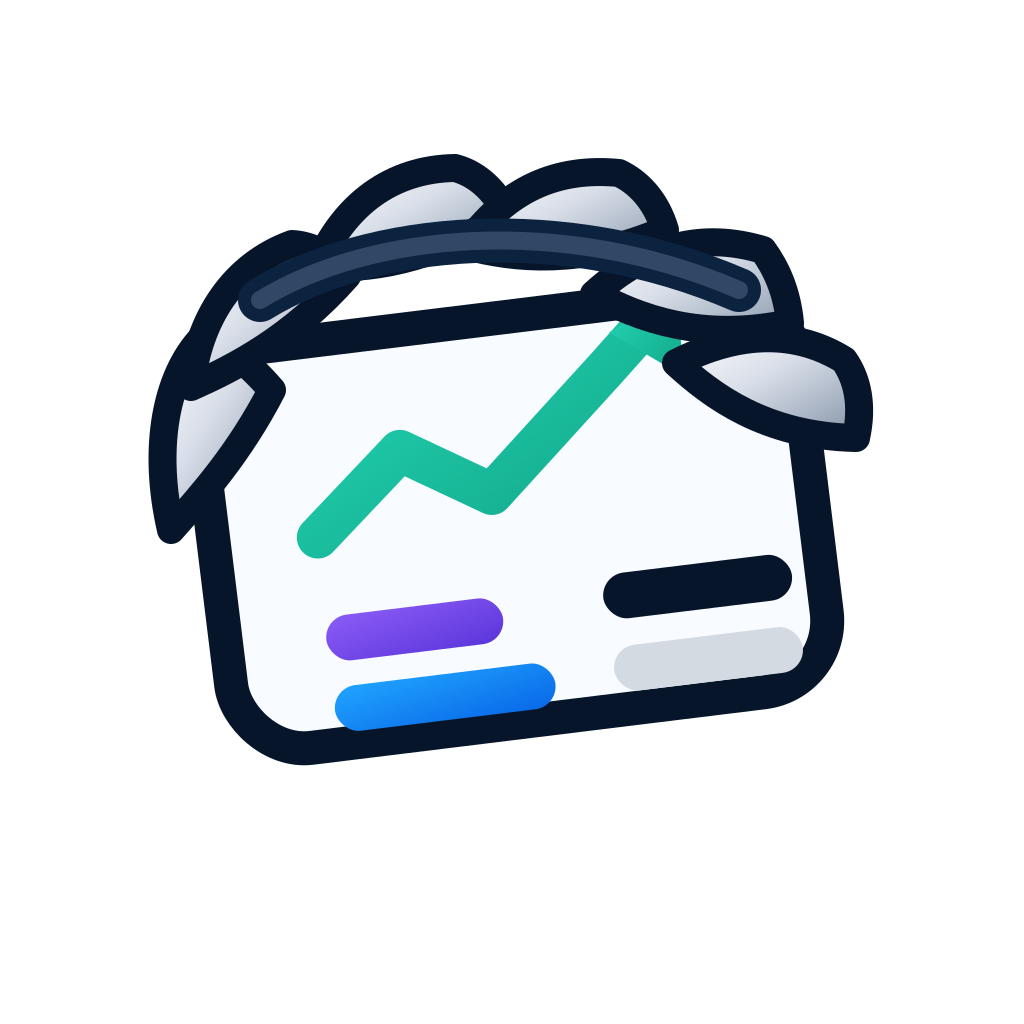
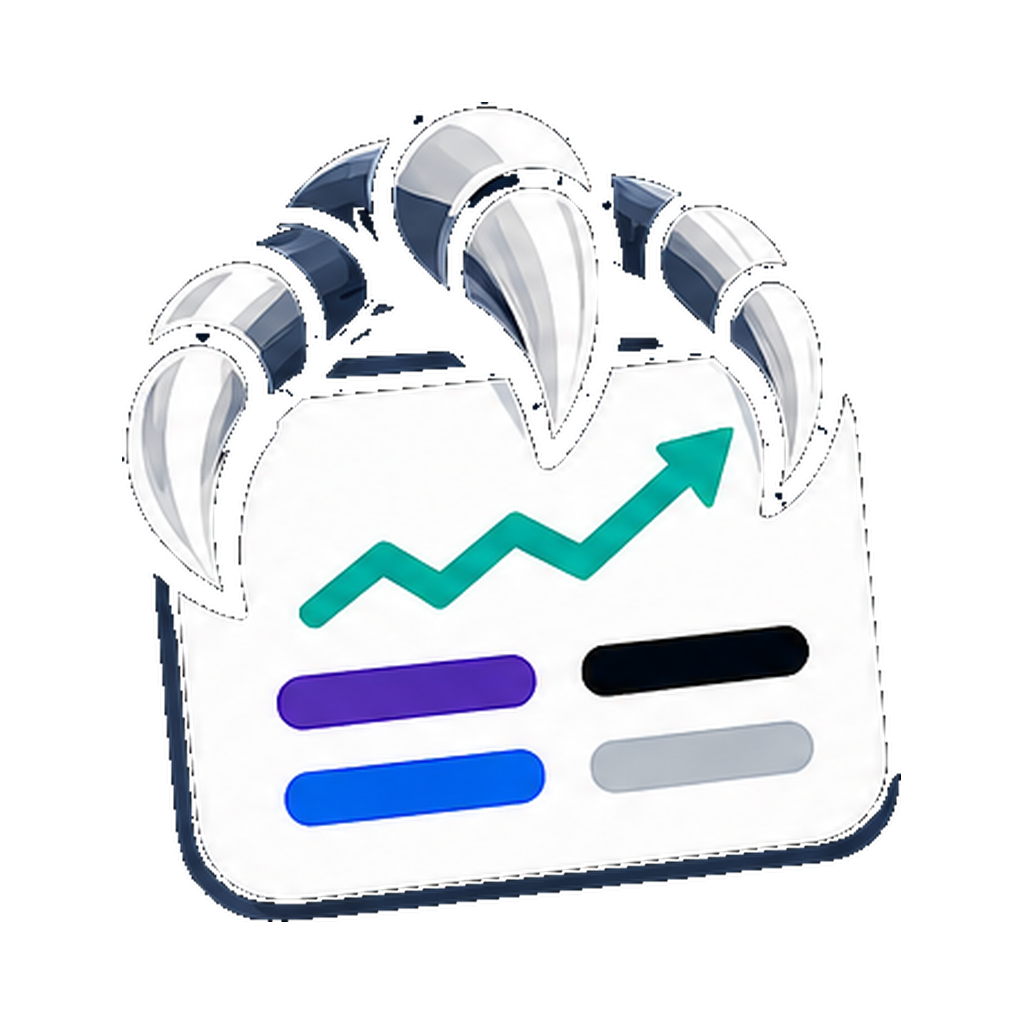
Update brand assets to refined illustration set
Drops in new PNGs from docs/brand/:

- mark-1024.png — refined claw + widget illustration with built-in
  dark-navy background, used as the iOS App Icon (Icon-1024.png).
- mark-transparent-1024.png — transparent variant.
- wordmark-horizontal.png — opaque horizontal lockup with the same
  dark-navy panel; used as the README hero.
- wordmark-horizontal-transparent.png — wordmark without the panel,
  for placing on already-dark surfaces.
- branding-sheet.png — replaced with the refreshed contact sheet from
  the new asset bundle.

The opaque wordmark.png has its own dark-navy panel built in, so it
reads correctly in both GitHub light *and* dark themes. That replaces
the previous <picture media="(prefers-color-scheme: dark)"> setup with
a custom dark SVG variant — no longer needed.

Removed stale SVG sources (mark.svg, mark-transparent.svg, wordmark.svg,
wordmark-horizontal.svg, wordmark-horizontal-dark.svg). They predated
this illustration revision and don't match it; the new asset set is
PNG-only by design. docs/brand/README.md notes this and lists the new
file inventory.

iOS sim rebuilt with the new icon and re-seeded against
https://api.00widget.com.

Changed region(s): [[0.125, 0.0938, 0.9062, 0.9062]]

diff --git a/docs/brand/README.md b/docs/brand/README.md
@@ -3,10 +3,7 @@
 The official brand assets and usage rules.
 
 <p align="center">
-  <picture>
-    <source media="(prefers-color-scheme: dark)" srcset="./wordmark-horizontal-dark.svg">
-    <img src="./wordmark-horizontal.svg" alt="00Widget — Widgets for all your agents." width="640">
-  </picture>
+  <img src="./wordmark-horizontal.png" alt="00Widget — Widgets for all your agents." width="720">
 </p>
 
 ## Tagline
@@ -21,36 +18,35 @@ Use this exact wording — no rephrasing. It appears in:
 
 ## Assets in this directory
 
-| File                            | Size       | Background  | Use                                   |
-| ------------------------------- | ---------- | ----------- | ------------------------------------- |
-| `mark-1024.png`                 | 1024×1024  | Opaque      | iOS App Icon (no transparency allowed). Already wired into `ios/Resources/App/Assets.xcassets/AppIcon.appiconset/Icon-1024.png`. |
-| `mark-transparent-1024.png`     | 1024×1024  | Transparent | Mark on arbitrary backgrounds — buttons, badges, dark headers. |
-| `wordmark-horizontal.png`       | 2400×800   | Transparent | Horizontal lockup of icon + "00Widget" + tagline. PNG fallback for environments that don't render SVG (Slack, email, OG-image previewers). |
-| `mark.svg` / `mark-transparent.svg` | vector | —           | Source of truth for the icon. Re-export raster sizes from these. |
-| `wordmark.svg` / `wordmark-horizontal.svg` | vector | —    | Source of truth for the lockup (light-mode text). README hero. |
-| `wordmark-horizontal-dark.svg`  | vector     | —           | Dark-mode variant of the horizontal lockup — light text colors so it stays legible on GitHub dark theme. Paired with the light SVG via `<picture media="(prefers-color-scheme: dark)">`. |
-| `branding-sheet.png`            | 1536×1024  | —           | Reference contact sheet showing all variants together. |
+| File                                  | Size       | Background       | Use                                                                                          |
+| ------------------------------------- | ---------- | ---------------- | -------------------------------------------------------------------------------------------- |
+| `mark-1024.png`                       | 1024×1024  | Opaque dark navy | iOS App Icon. Already wired into `ios/Resources/App/Assets.xcassets/AppIcon.appiconset/Icon-1024.png`. |
+| `mark-transparent-1024.png`           | 1024×1024  | Transparent      | Mark on arbitrary backgrounds — buttons, badges, dark headers.                               |
+| `wordmark-horizontal.png`             | 2400×813   | Opaque dark navy | Horizontal lockup with built-in dark-navy panel. README hero — works in light *and* dark themes. |
+| `wordmark-horizontal-transparent.png` | 2400×711   | Transparent      | Horizontal lockup without panel. Use only when placing on a dark surface that gives enough contrast. |
+| `branding-sheet.png`                  | 1536×1024  | —                | Reference contact sheet showing all variants together.                                       |
+
+Vector sources (SVG) are not maintained for this revision; rasterize from a higher-res master if you need additional sizes.
 
 ## Color palette
 
-Sourced from the SVG `<linearGradient>` definitions — these are the authoritative values, not eyeballed samples.
+Eyeballed from the rendered PNGs (treat as approximate — request authoritative hex values from the designer if you need them for new collateral).
 
-| Role               | Stops                              | Usage                                   |
-| ------------------ | ---------------------------------- | --------------------------------------- |
-| Brand blue         | `#22A8FF` → `#0968E8`              | "00" wordmark, primary CTAs, card row   |
-| Trend teal         | `#24D6B5` → `#11A789`              | Trend-line accent inside the mark       |
-| Accent purple      | `#8B5CF6` → `#5B35DB`              | Card row accent inside the mark         |
-| Claw metal         | `#FFFFFF` → `#D8DEE8` → `#8291A6`  | Claw fill                               |
-| Deep navy          | `#06152A`                          | "Widget" wordmark, card stroke, dark text |
-| Mid navy           | `#243A57`                          | Tagline, secondary text                 |
-| Outline navy       | `#0C2340` (heavy) / `#304765` (highlight) | Claw outline, hierarchy lines    |
-| Card surface       | `#F8FBFF`                          | Card background inside the mark         |
-| Card row gray      | `#D4DAE2`                          | Inactive row in the mark                |
+| Role             | Approx hex            | Usage                                       |
+| ---------------- | --------------------- | ------------------------------------------- |
+| Brand blue       | `#1F8BFF` / `#0968E8` | "00" wordmark, primary accent               |
+| Trend teal       | `#1FB89A`             | Trend-line accent inside the mark           |
+| Accent purple    | `#5B35DB`             | Card row accent inside the mark             |
+| Claw metal       | white → `#8291A6`     | Claw fill (gradient)                        |
+| Deep navy        | `#06152A`             | Panel + card stroke + "Widget" text         |
+| Mid navy         | `#243A57`             | Tagline                                     |
+| Card surface     | `#F8FBFF`             | Card background inside the mark             |
+| Card row gray    | `#D4DAE2`             | Inactive row in the mark                    |
 
 ## Usage rules
 
 - **Do not** rephrase the tagline.
-- **Do not** recolor the mark. Use the supplied light/dark/mono variants as-is. If you need a new variant, re-export from the SVG sources.
+- **Do not** recolor the mark. Use the supplied variants as-is.
 - **Do** keep clearspace around the mark equal to half the height of the "0" in `00Widget`.
 - **Do not** stretch — preserve aspect ratio always.
-- **Do not** use the transparent mark on a background that competes with the trend-teal or brand-blue accents (use a near-black or near-white surface).
+- **Do not** place `mark-transparent-1024.png` on backgrounds that compete with the trend-teal or brand-blue accents (use near-black or near-white surfaces).

diff --git a/README.md b/README.md
@@ -1,8 +1,5 @@
 <p align="center">
-  <picture>
-    <source media="(prefers-color-scheme: dark)" srcset="./docs/brand/wordmark-horizontal-dark.svg">
-    <img src="./docs/brand/wordmark-horizontal.svg" alt="00Widget — Widgets for all your agents." width="640">
-  </picture>
+  <img src="./docs/brand/wordmark-horizontal.png" alt="00Widget — Widgets for all your agents." width="720">
 </p>
 
 # 00Widget
